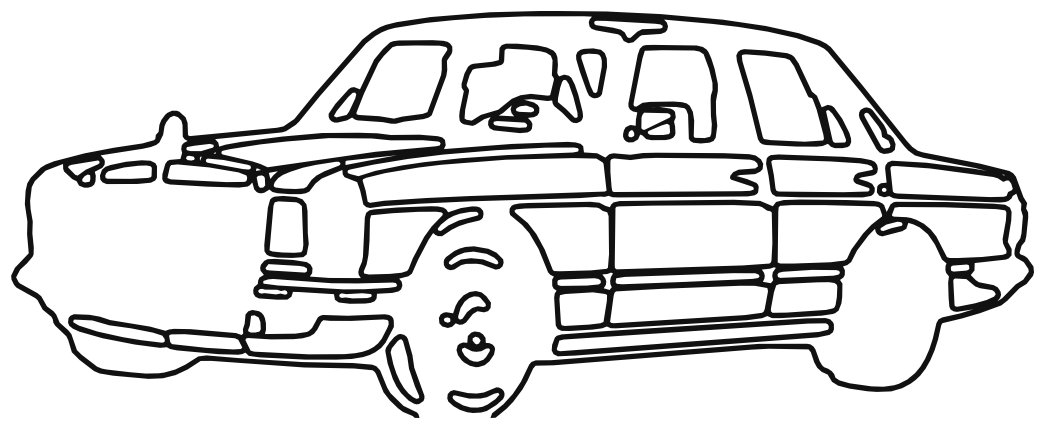
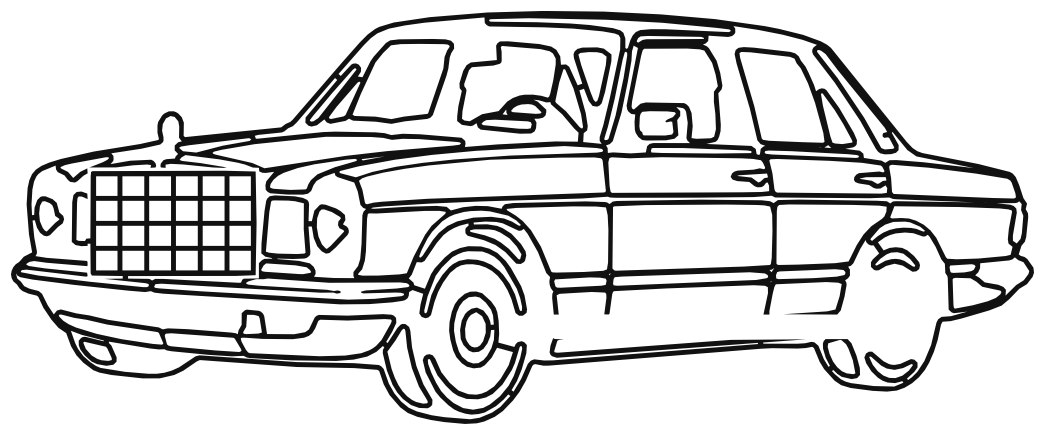
Mercedes wall art: connected outline, grid grille, sill lines removed
Claude-Session: https://claude.ai/code/session_01SotwDHT1STTNJZZpPikuEu

Changed region(s): [[0.0, 0.0303, 1.0, 1.0]]

diff --git a/student_pack/mb_outline.py b/student_pack/mb_outline.py
@@ -1,32 +1,54 @@
-import sys, numpy as np, cv2, pickle
+"""Mercedes W114/W115 wall art: photo of the render -> clean connected outline vector (px of a 4x crop, y up).
+Pipeline: threshold -> simplify (close small gaps, fill small holes) -> hollow solid areas to an edge band ->
+fix-ups (remove sill lines, square-grid radiator grille) -> connect loose islands -> potrace polygons."""
+import pickle, sys
+import cv2, numpy as np
 from PIL import Image
 from shapely import affinity
-from skimage.morphology import skeletonize
-sys.path.insert(0,'/home/user/-sharpseek-api/student_pack')
+from shapely.geometry import LineString
+from shapely.ops import nearest_points, unary_union
+sys.path.insert(0, __file__.rsplit("/", 1)[0])
 from trace import mask_to_geom
-blur,thr,close,rad,out=float(sys.argv[1]),float(sys.argv[2]),int(sys.argv[3]),int(sys.argv[4]),sys.argv[5]
-im=np.array(Image.open('/root/.claude/uploads/be9cc890-d9f9-58e5-abf5-b88979c7d61a/b5d49ff4-image.png').convert('L'))[150:395,460:1070]
-up=cv2.resize(im,None,fx=4,fy=4,interpolation=cv2.INTER_CUBIC); up=cv2.GaussianBlur(up,(0,0),blur)
-k=lambda r: cv2.getStructuringElement(cv2.MORPH_ELLIPSE,(2*r+1,2*r+1))
-m=(up<thr).astype(np.uint8)
-m=cv2.morphologyEx(m,cv2.MORPH_CLOSE,k(close))
-dt=cv2.distanceTransform(m,cv2.DIST_L2,5); sk=((m>0)&~(dt>rad)).astype(np.uint8)
-# drop short skeleton fragments
-n,lab,st,_=cv2.connectedComponentsWithStats(sk,connectivity=8)
-for i in range(1,n):
-    if st[i,4]<3000: sk[lab==i]=0
-d=cv2.morphologyEx(sk,cv2.MORPH_OPEN,k(3))
-g=mask_to_geom(d.astype(bool),1.0,d.shape[0]); b=g.bounds
-g=affinity.translate(g,-b[0],-b[1]).simplify(1.0)
-pickle.dump(g,open('/tmp/claude-0/mb/mb_geom4.pkl','wb'))
-print('area frac',g.area/(g.bounds[2]*g.bounds[3]), 'parts',len(g.geoms) if hasattr(g,'geoms') else 1)
-import matplotlib; matplotlib.use('Agg'); import matplotlib.pyplot as plt
-from matplotlib.patches import PathPatch; from matplotlib.path import Path
-fig,ax=plt.subplots(figsize=(12,5.2),dpi=110)
-for p in (g.geoms if hasattr(g,'geoms') else [g]):
-    v=list(p.exterior.coords); c=[1]+[2]*(len(v)-2)+[79]
-    for i in p.interiors:
-        q=list(i.coords); v+=q; c+=[1]+[2]*(len(q)-2)+[79]
-    ax.add_patch(PathPatch(Path(v,c),fc='#111',ec='none'))
-ax.set_xlim(0,g.bounds[2]);ax.set_ylim(0,g.bounds[3]);ax.set_aspect('equal');ax.axis('off')
-fig.savefig(out,bbox_inches='tight',facecolor='white')
+
+SRC = sys.argv[1] if len(sys.argv) > 1 else "mb_source.png"
+OUT = sys.argv[2] if len(sys.argv) > 2 else "mb_outline.pkl"
+RAD = 11                         # edge band / line width in px (4x crop): 3.3 mm at 70 cm
+k = lambda r: cv2.getStructuringElement(cv2.MORPH_ELLIPSE, (2 * r + 1, 2 * r + 1))
+
+im = np.array(Image.open(SRC).convert("L"))[150:402, 460:1070]
+up = cv2.GaussianBlur(cv2.resize(im, None, fx=4, fy=4, interpolation=cv2.INTER_CUBIC), (0, 0), 2)
+m = cv2.morphologyEx((up < 85).astype(np.uint8), cv2.MORPH_CLOSE, k(3))
+n, lab, st, _ = cv2.connectedComponentsWithStats(1 - m, connectivity=4)
+for i in range(1, n):
+    if st[i, 4] < 900:
+        m[lab == i] = 1
+m = cv2.morphologyEx(m, cv2.MORPH_OPEN, k(3))
+dt = cv2.distanceTransform(m, cv2.DIST_L2, 5)
+h = ((m > 0) & ~(dt > RAD)).astype(np.uint8)
+
+# 1) two sill lines that are not in the original drawing
+h[745:800, 1280:1990] = 0
+# 2) radiator grille: frame + crossing lines -> squares
+x0, y0, x1, y1 = 248, 428, 608, 652
+h[y0 - 12:y1 + 12, x0 - 12:x1 + 12] = 0
+cv2.rectangle(h, (x0, y0), (x1, y1), 1, 12)
+for i in range(1, 6):
+    x = x0 + (x1 - x0) * i // 6; cv2.line(h, (x, y0), (x, y1), 1, 10)
+for j in range(1, 4):
+    y = y0 + (y1 - y0) * j // 4; cv2.line(h, (x0, y), (x1, y), 1, 10)
+
+# 3) drop specks, bridge the remaining islands to the main body
+n, lab, st, _ = cv2.connectedComponentsWithStats(h, connectivity=8)
+for i in range(1, n):
+    if st[i, 4] < 1500:
+        h[lab == i] = 0
+g = mask_to_geom(h.astype(bool), 1.0, h.shape[0])
+parts = sorted(g.geoms if hasattr(g, "geoms") else [g], key=lambda p: -p.area)
+main, bridges = parts[0], []
+for p in parts[1:]:
+    a, b = nearest_points(main, p)
+    bridges.append(LineString([a, b]).buffer(6))
+    main = unary_union([main, p, bridges[-1]])
+g = affinity.translate(main, -main.bounds[0], -main.bounds[1]).simplify(1.0)
+print("parts", len(g.geoms) if hasattr(g, "geoms") else 1, "bridges", len(bridges), "fill", round(g.area / (g.bounds[2] * g.bounds[3]), 3))
+pickle.dump(g, open(OUT, "wb"))
